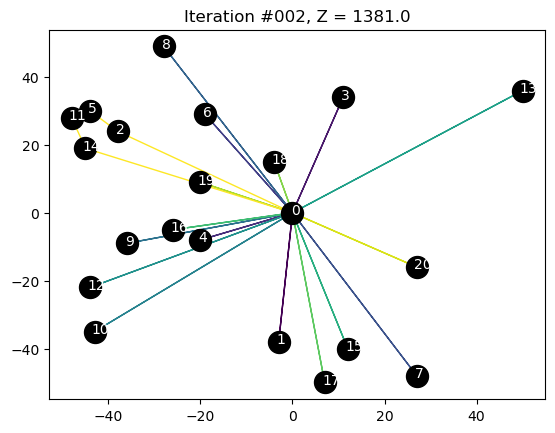
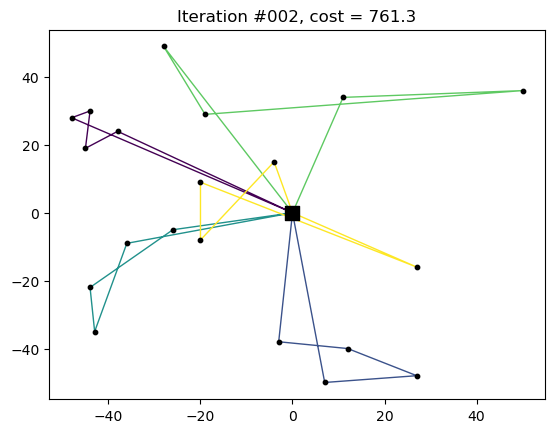
both improvement heuristics working

diff --git a/src/solver/improver/heuristic_2_opt_inter_route.py b/src/solver/improver/heuristic_2_opt_inter_route.py
@@ -1,4 +1,4 @@
-from typing import List
+from typing import List, Tuple
 
 from problem.cvrp import CVRP, Route
 from problem.solution import Solution
@@ -7,44 +7,56 @@ from problem.solution import Solution
 def get_neighborhood(solution: Solution) -> List[Solution]:
     instance = solution.instance
     neighborhood = []  # list of potential solutions
-    for route_id, route in solution.routes.items():
-        improved_route = get_2_opt_intra_route_solutions(route, instance)
-        new_route_dict = solution.routes.copy()
-        new_route_dict[route_id] = improved_route
-        new_sol = Solution(instance, new_route_dict)
-        neighborhood.append(new_sol)
+    for id_i, ri in solution.routes.items():
+        for id_j, rj in solution.routes.items():
+            if id_i != id_j:
+                new_ri, new_rj = get_2_opt_inter_route_solutions(ri, rj, instance)
+
+                # Assemble this new solution
+                new_route_dict = solution.routes.copy()
+                del new_route_dict[id_i]
+                del new_route_dict[id_j]
+                if new_ri is not None:
+                    new_route_dict[id_i] = new_ri
+                if new_rj is not None:
+                    new_route_dict[id_j] = new_rj
+                new_sol = Solution(instance, new_route_dict)
+                neighborhood.append(new_sol)
     return neighborhood
 
 
-def get_2_opt_intra_route_solutions(route: Route, instance: CVRP) -> Route:
-    """Given a route, applies 2-opt intra-route heuristic and retrieves
+def get_2_opt_inter_route_solutions(
+    route_i: Route, route_j: Route, instance: CVRP
+) -> Tuple[Route, Route]:
+    """Given a route, applies 2-opt inter-route heuristic and retrieves
     the best option.
 
     Args:
-        route (Route):
+        route_i (Route):
+        route_j (Route):
         instance (CVRP):
 
     Returns:
-        best_route (Route):
+        new_route_i, new_route_j
     """
-
-    # Base case with no optimization
-    if len(route.clients) == 1:
-        return route
-
-    n = len(route.nodes)  # total number of nodes
-    min_cost = instance.get_route_cost(route)
-    best_route = route
-    for i in range(1, n - 1):  # pivot customer, try to put it in every other position
-        for j in range(1, n - 1):  # swap i with j
-            if i != j:
-                nodes = route.nodes.copy()
-                temp_j = nodes[j]
-                nodes[j] = nodes[i]
-                nodes[i] = temp_j
-                new_route = Route(nodes)
-                cost = instance.get_route_cost(new_route)
+    ni = route_i.nodes
+    nj = route_j.nodes
+    min_cost = instance.get_route_cost(route_i) + instance.get_route_cost(route_j)
+    best_route_i = route_i
+    best_route_j = route_j
+    for i in range(0, len(ni) - 1):
+        for j in range(0, len(nj) - 1):
+            new_nodes_i = ni[0 : i + 1].copy() + nj[j + 1 :].copy()
+            new_nodes_j = nj[0 : j + 1].copy() + ni[i + 1 :].copy()
+            new_route_i = Route(new_nodes_i)
+            new_route_j = Route(new_nodes_j)
+            if instance.is_valid_route(new_route_i) and instance.is_valid_route(
+                new_route_j
+            ):
+                cost = instance.get_route_cost(new_route_i) + instance.get_route_cost(
+                    new_route_j
+                )
                 if cost < min_cost:
                     min_cost = cost
-                    best_route = new_route
-    return best_route
+                    best_route_i, best_route_j = new_route_i, new_route_j
+    return best_route_i, best_route_j

diff --git a/src/solver/column_generation/method.py b/src/solver/column_generation/method.py
@@ -34,10 +34,10 @@ class SolverColumnGeneration:
         drawer = Drawer(self.folder, self.instance)
 
         # Heuristic solution
-        self.initial_solution = initial_solution.closest_client(instance)
-        drawer.draw_solution(self.initial_solution, filename="Heuristic_closest")
+        # self.initial_solution = initial_solution.closest_client(instance)
+        # drawer.draw_solution(self.initial_solution, filename="Heuristic_closest")
         # self.initial_solution = initial_solution.one_route_per_client(instance)
-        # self.initial_solution = initial_solution.clarke_and_wright(instance)
+        self.initial_solution = initial_solution.clarke_and_wright(instance)
         # drawer.draw_solution(self.initial_solution, filename="Heuristic_cw")
         drawer.draw_solution(self.initial_solution, filename=None, save_iteration=True)
 
@@ -89,7 +89,7 @@ class SolverColumnGeneration:
         print(f"\n\nCOLUMN GENERATION ENDED!!!")
 
         # Applying improvement
-        improver = Improver(self.initial_solution, 5, drawer)
+        improver = Improver(self.initial_solution, 200, drawer)
         final_solution = improver.apply()
 
         # Now save the log
@@ -130,8 +130,12 @@ class SolverColumnGeneration:
                 # add route to the master problem
                 path[-1] = 0  # replace the last virtual node with the actual depot
                 route = Route(path)
-                self.instance.is_valid_route(route)
-                cost = self.instance.get_route_cost(route)
-                self.master.add_route(route, cost)
-                print(f"\t {i+1}: red-cost: {reduced_cost} path: {path}, cost: {cost}")
+                if self.instance.is_valid_route(route):
+                    cost = self.instance.get_route_cost(route)
+                    self.master.add_route(route, cost)
+                    print(
+                        f"\t {i+1}: red-cost: {reduced_cost} path: {path}, cost: {cost}"
+                    )
+                else:
+                    raise ValueError()
         return min_reduced_cost_entered

diff --git a/src/solver/improver/method.py b/src/solver/improver/method.py
@@ -2,7 +2,7 @@ from problem.cvrp import CVRP, Route
 from problem.solution import Solution
 from utils.drawer import Drawer
 
-from . import heuristic_2_opt_intra_route
+from . import heuristic_2_opt_inter_route, heuristic_2_opt_intra_route
 
 MIN_IMPROVEMENT = 0.01
 
@@ -35,19 +35,25 @@ class Improver:
         best_solution = self.initial_solution
         best_cost = best_solution.get_cost()
         finish = False
-        for i in range(self.max_iterations):
+        for _ in range(self.max_iterations):
 
             # Store the list of (cost, solution)
             solutions = []
-            heuristic1 = heuristic_2_opt_intra_route.get_neighborhood(best_solution)
-            for s in heuristic1:
-                solutions.append((s.get_cost(), s))
+            solutions.extend(
+                heuristic_2_opt_intra_route.get_neighborhood(best_solution)
+            )
+            solutions.extend(
+                heuristic_2_opt_inter_route.get_neighborhood(best_solution)
+            )
+            cost_solutions = []
+            for s in solutions:
+                cost_solutions.append((s.get_cost(), s))
 
             # Move to the best greedy
-            solutions.sort(key=lambda tup: tup[0])  # sort by cost
-            if solutions[0][0] + MIN_IMPROVEMENT < best_cost:
-                best_cost = solutions[0][0]
-                best_solution = solutions[0][1]
+            cost_solutions.sort(key=lambda tup: tup[0])  # sort by cost
+            if cost_solutions[0][0] + MIN_IMPROVEMENT < best_cost:
+                best_cost = cost_solutions[0][0]
+                best_solution = cost_solutions[0][1]
             else:
                 finish = True
 

diff --git a/src/problem/cvrp.py b/src/problem/cvrp.py
@@ -61,12 +61,23 @@ class CVRP:
         Returns:
             bool: True if route is valid, Error if not
         """
-        assert r is not None
-        assert len(r.nodes) >= 3  # depot -> client -> depot is the shortest
-        assert r.nodes[0] == 0  # start is the depot
-        assert r.nodes[-1] == 0  # end is the depot
+        if r is None:
+            return False
+        if len(r.nodes) <= 2:
+            return False
+        if r.nodes[0] != 0:  # start is the depot
+            return False
+        if r.nodes[-1] != 0:  # end is the depot
+            return False
+        if len(set(r.nodes[1:-1])) != len(
+            r.nodes[1:-1]
+        ):  # there are duplicated clients
+            return False
+
         demand_covered = sum([self.demand[i] for i in r.clients])
-        assert demand_covered <= self.q  # constraint capacity
+        if demand_covered > self.q:  # constraint capacity
+            return False
+
         return True
 
     def get_route_cost(self, r: Route) -> float:

diff --git a/src/problem/solution.py b/src/problem/solution.py
@@ -16,7 +16,8 @@ class Solution:
         self.routes: Dict[int, Route] = routes
 
         # Check if they are feasible, error if not
-        [self.instance.is_valid_route(r) for r in self.routes.values()]
+        for r in self.routes.values():
+            assert self.instance.is_valid_route(r)
 
         # Check if the routes cover all the clients
         clients_covered = set()

diff --git a/src/main.py b/src/main.py
@@ -20,7 +20,7 @@ if __name__ == "__main__":
     # generate_from_vrp_file(folder=FOLDER_INSTANCES, instance_name="E-n22-k4")
 
     # Solve
-    instance = "02"
+    instance = "CMT1"
     instance_folder = os.path.join(FOLDER_INSTANCES, instance)
     filepath = os.path.join(instance_folder, instance) + ".json"
     data = CVRP(filepath)
